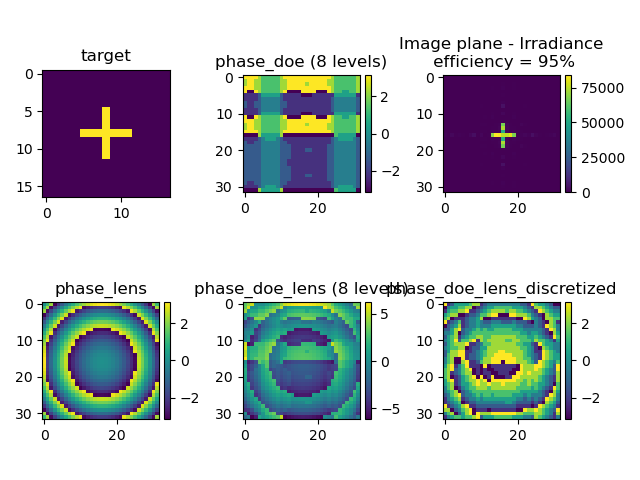
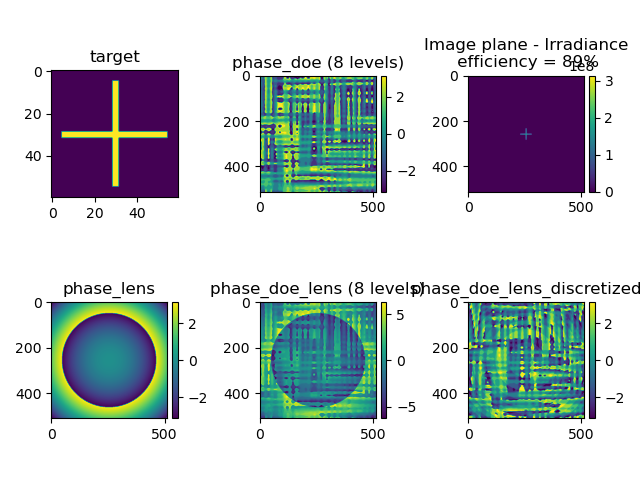
correction image plane sampling (new case for JL CdC)

diff --git a/doe/main_ifta.py b/doe/main_ifta.py
@@ -27,18 +27,18 @@ dir_results = dirc + r"results\\"
 # 8<--------------------- Parameters ------------------------------------
 
 # target image
-sizeCross = 7
-width = 1
+sizeCross = 25
+width = 3
 
-doe_size = [32,32]
+doe_size = [64,64]
 
 n_levels = 8
 
 d1 = 0.01               # [m] distance laser - DOE
-d2 = 0.02               # [m] distance DOE - image plane
+d2 = 0.05               # [m] distance DOE - image plane
 doe_length = 225e-6     # [m] length of the side of the DOE
 
-wavelength = 632e-9     # [m] wavelength
+wavelength = 1e-6       # [m] wavelength
 
 # 8<--------------------- main ------------------------------------------
 
@@ -60,48 +60,50 @@ np.save(dir_results+"crossDoeLens", phase_doe_lens)
 
 print("efficiency = "+str(efficiency))
 
-fig, axs = plt.subplots(nrows=2, ncols=3)
-
-fig00=axs[0,0].imshow(target, aspect="equal")
-axs[0,0].set_title("target")
-
-fig01=axs[0,1].imshow(phase_doe)
-axs[0,1].set_title("phase_doe ("+str(n_levels)+" levels)")
-divider = make_axes_locatable(axs[0,1])
-cax = divider.append_axes("right", size="5%", pad=0.05)
-plt.colorbar(fig01, cax=cax)
-
-fig02=axs[0,2].imshow(recovery)
-axs[0,2].set_title("Image plane - Irradiance\n efficiency = "+str(round(efficiency*100))+"%")
-divider = make_axes_locatable(axs[0,2])
-cax = divider.append_axes("right", size="5%", pad=0.05)
-plt.colorbar(fig02, cax=cax)
-
-fig10=axs[1,0].imshow(phase_lens)
-axs[1,0].set_title("phase_lens")
-divider = make_axes_locatable(axs[1,0])
-cax = divider.append_axes("right", size="5%", pad=0.05)
-plt.colorbar(fig10, cax=cax)
-
-fig11=axs[1,1].imshow(phase_doe_lens)
-axs[1,1].set_title("phase_doe_lens ("+str(n_levels)+" levels)")
-divider = make_axes_locatable(axs[1,1])
-cax = divider.append_axes("right", size="5%", pad=0.05)
-plt.colorbar(fig11, cax=cax)
-
-fig12=axs[1,2].imshow(phase_doe_lens_discretized)
-axs[1,2].set_title("phase_doe_lens_discretized")
-divider = make_axes_locatable(axs[1,2])
-cax = divider.append_axes("right", size="5%", pad=0.05)
-plt.colorbar(fig12, cax=cax)
-
-plt.tight_layout()
-plt.savefig(dirc+r"figures\\"+"test.png")
+# =============================================================================
+# fig, axs = plt.subplots(nrows=2, ncols=3)
+# 
+# fig00=axs[0,0].imshow(target, aspect="equal")
+# axs[0,0].set_title("target")
+# 
+# fig01=axs[0,1].imshow(phase_doe)
+# axs[0,1].set_title("phase_doe ("+str(n_levels)+" levels)")
+# divider = make_axes_locatable(axs[0,1])
+# cax = divider.append_axes("right", size="5%", pad=0.05)
+# plt.colorbar(fig01, cax=cax)
+# 
+# fig02=axs[0,2].imshow(recovery)
+# axs[0,2].set_title("Image plane - Irradiance\n efficiency = "+str(round(efficiency*100))+"%")
+# divider = make_axes_locatable(axs[0,2])
+# cax = divider.append_axes("right", size="5%", pad=0.05)
+# plt.colorbar(fig02, cax=cax)
+# 
+# fig10=axs[1,0].imshow(phase_lens)
+# axs[1,0].set_title("phase_lens")
+# divider = make_axes_locatable(axs[1,0])
+# cax = divider.append_axes("right", size="5%", pad=0.05)
+# plt.colorbar(fig10, cax=cax)
+# 
+# fig11=axs[1,1].imshow(phase_doe_lens)
+# axs[1,1].set_title("phase_doe_lens ("+str(n_levels)+" levels)")
+# divider = make_axes_locatable(axs[1,1])
+# cax = divider.append_axes("right", size="5%", pad=0.05)
+# plt.colorbar(fig11, cax=cax)
+# 
+# fig12=axs[1,2].imshow(phase_doe_lens_discretized)
+# axs[1,2].set_title("phase_doe_lens_discretized")
+# divider = make_axes_locatable(axs[1,2])
+# cax = divider.append_axes("right", size="5%", pad=0.05)
+# plt.colorbar(fig12, cax=cax)
+# 
+# plt.tight_layout()
+# plt.savefig(dirc+r"figures\\"+"test.png")
+# =============================================================================
 
 # 8<-------------------- plots in physical units ------------------------
 
 pp_doe_plane = doe_length/doe_size[0]               # [m]
-pp_image_plane = wavelength * d2 * 1/pp_doe_plane   # [m]
+pp_image_plane = wavelength * d2 * 1/doe_length    # [m]
 
 [X,Y] = getCartesianCoordinates(nrows=doe_size[0])
 x_axis_image_plane = pp_image_plane * X[0,:]        # [m]
@@ -130,16 +132,16 @@ divider = make_axes_locatable(axs2[0,1])
 cax = divider.append_axes("right", size="5%", pad=0.05)
 plt.colorbar(fig201, cax=cax)
 
-fig202=axs2[0,2].imshow(recovery, extent=               # [cm]
-                        1e2*np.array([x_axis_image_plane[0], x_axis_image_plane[-1], y_axis_image_plane[-1], y_axis_image_plane[0]]))
+fig202=axs2[0,2].imshow(recovery, extent=                             # [mm]
+                        1e3*np.array([x_axis_image_plane[0], x_axis_image_plane[-1], y_axis_image_plane[-1], y_axis_image_plane[0]]))
 axs2[0,2].set_title("Image plane - Irradiance\n efficiency = "+str(round(efficiency*100))+"%")
-axs2[0,2].set_xlabel("[cm]")
-axs2[0,2].set_ylabel("[cm]")
+axs2[0,2].set_xlabel("[mm]")
+axs2[0,2].set_ylabel("[mm]")
 divider = make_axes_locatable(axs2[0,2])
 cax = divider.append_axes("right", size="5%", pad=0.05)
 plt.colorbar(fig202, cax=cax)
 
-fig210=axs2[1,0].imshow(phase_lens, extent=              # [µm]
+fig210=axs2[1,0].imshow(phase_lens, extent=                            # [µm]
                         1e6*np.array([x_axis_doe_plane[0], x_axis_doe_plane[-1], y_axis_doe_plane[-1], y_axis_doe_plane[0]]))
 axs2[1,0].set_title("phase_lens")
 axs2[1,0].set_xlabel("[µm]")
@@ -148,7 +150,7 @@ divider = make_axes_locatable(axs2[1,0])
 cax = divider.append_axes("right", size="5%", pad=0.05)
 plt.colorbar(fig210, cax=cax)
 
-fig211=axs2[1,1].imshow(phase_doe_lens, extent=              # [µm]
+fig211=axs2[1,1].imshow(phase_doe_lens, extent=                        # [µm]
                         1e6*np.array([x_axis_doe_plane[0], x_axis_doe_plane[-1], y_axis_doe_plane[-1], y_axis_doe_plane[0]]))
 axs2[1,1].set_title("phase_doe_lens ("+str(n_levels)+" levels)")
 axs2[1,1].set_xlabel("[µm]")
@@ -157,7 +159,7 @@ divider = make_axes_locatable(axs2[1,1])
 cax = divider.append_axes("right", size="5%", pad=0.05)
 plt.colorbar(fig211, cax=cax)
 
-fig212=axs2[1,2].imshow(phase_doe_lens_discretized, extent=              # [µm]
+fig212=axs2[1,2].imshow(phase_doe_lens_discretized, extent=            # [µm]
                         1e6*np.array([x_axis_doe_plane[0], x_axis_doe_plane[-1], y_axis_doe_plane[-1], y_axis_doe_plane[0]]))
 axs2[1,2].set_title("phase_doe_lens_discretized")
 axs2[1,2].set_xlabel("[µm]")
@@ -168,15 +170,15 @@ plt.colorbar(fig212, cax=cax)
 
 plt.tight_layout()
 
-############ table ################
+############ param file ################
 
 nrows = 6
 ncols = 1
 
-params = ["wavelength [nm]", "d1 [cm]", "d2 [cm]", "doe side length [mm]", "doe diameter [px]", 
-          "doe pixel pitch [µm]", "cross diameter [cm]"]
-elts = [str(wavelength*1e9), str(100*d1), str(100*d2), str(doe_length*1e3), 
-        str(doe_size), str(pp_doe_plane*1e6), str(sizeCross*pp_image_plane*100)]
+params = ["wavelength [nm]", "d1 [cm]", "d2 [cm]", "doe side length [µm]", "doe diameter [px]", 
+          "doe pixel pitch [µm]", "cross diameter [mm]"]
+elts = [str(wavelength*1e9), str(100*d1), str(100*d2), str(doe_length*1e6), 
+        str(doe_size[0]), str(np.round(pp_doe_plane*1e6, decimals=1)), str(np.round(sizeCross*pp_image_plane*1e3, decimals=2))]
 
 with open(dir_results+'params.txt', 'w') as f:
     f.write("\n\n")
